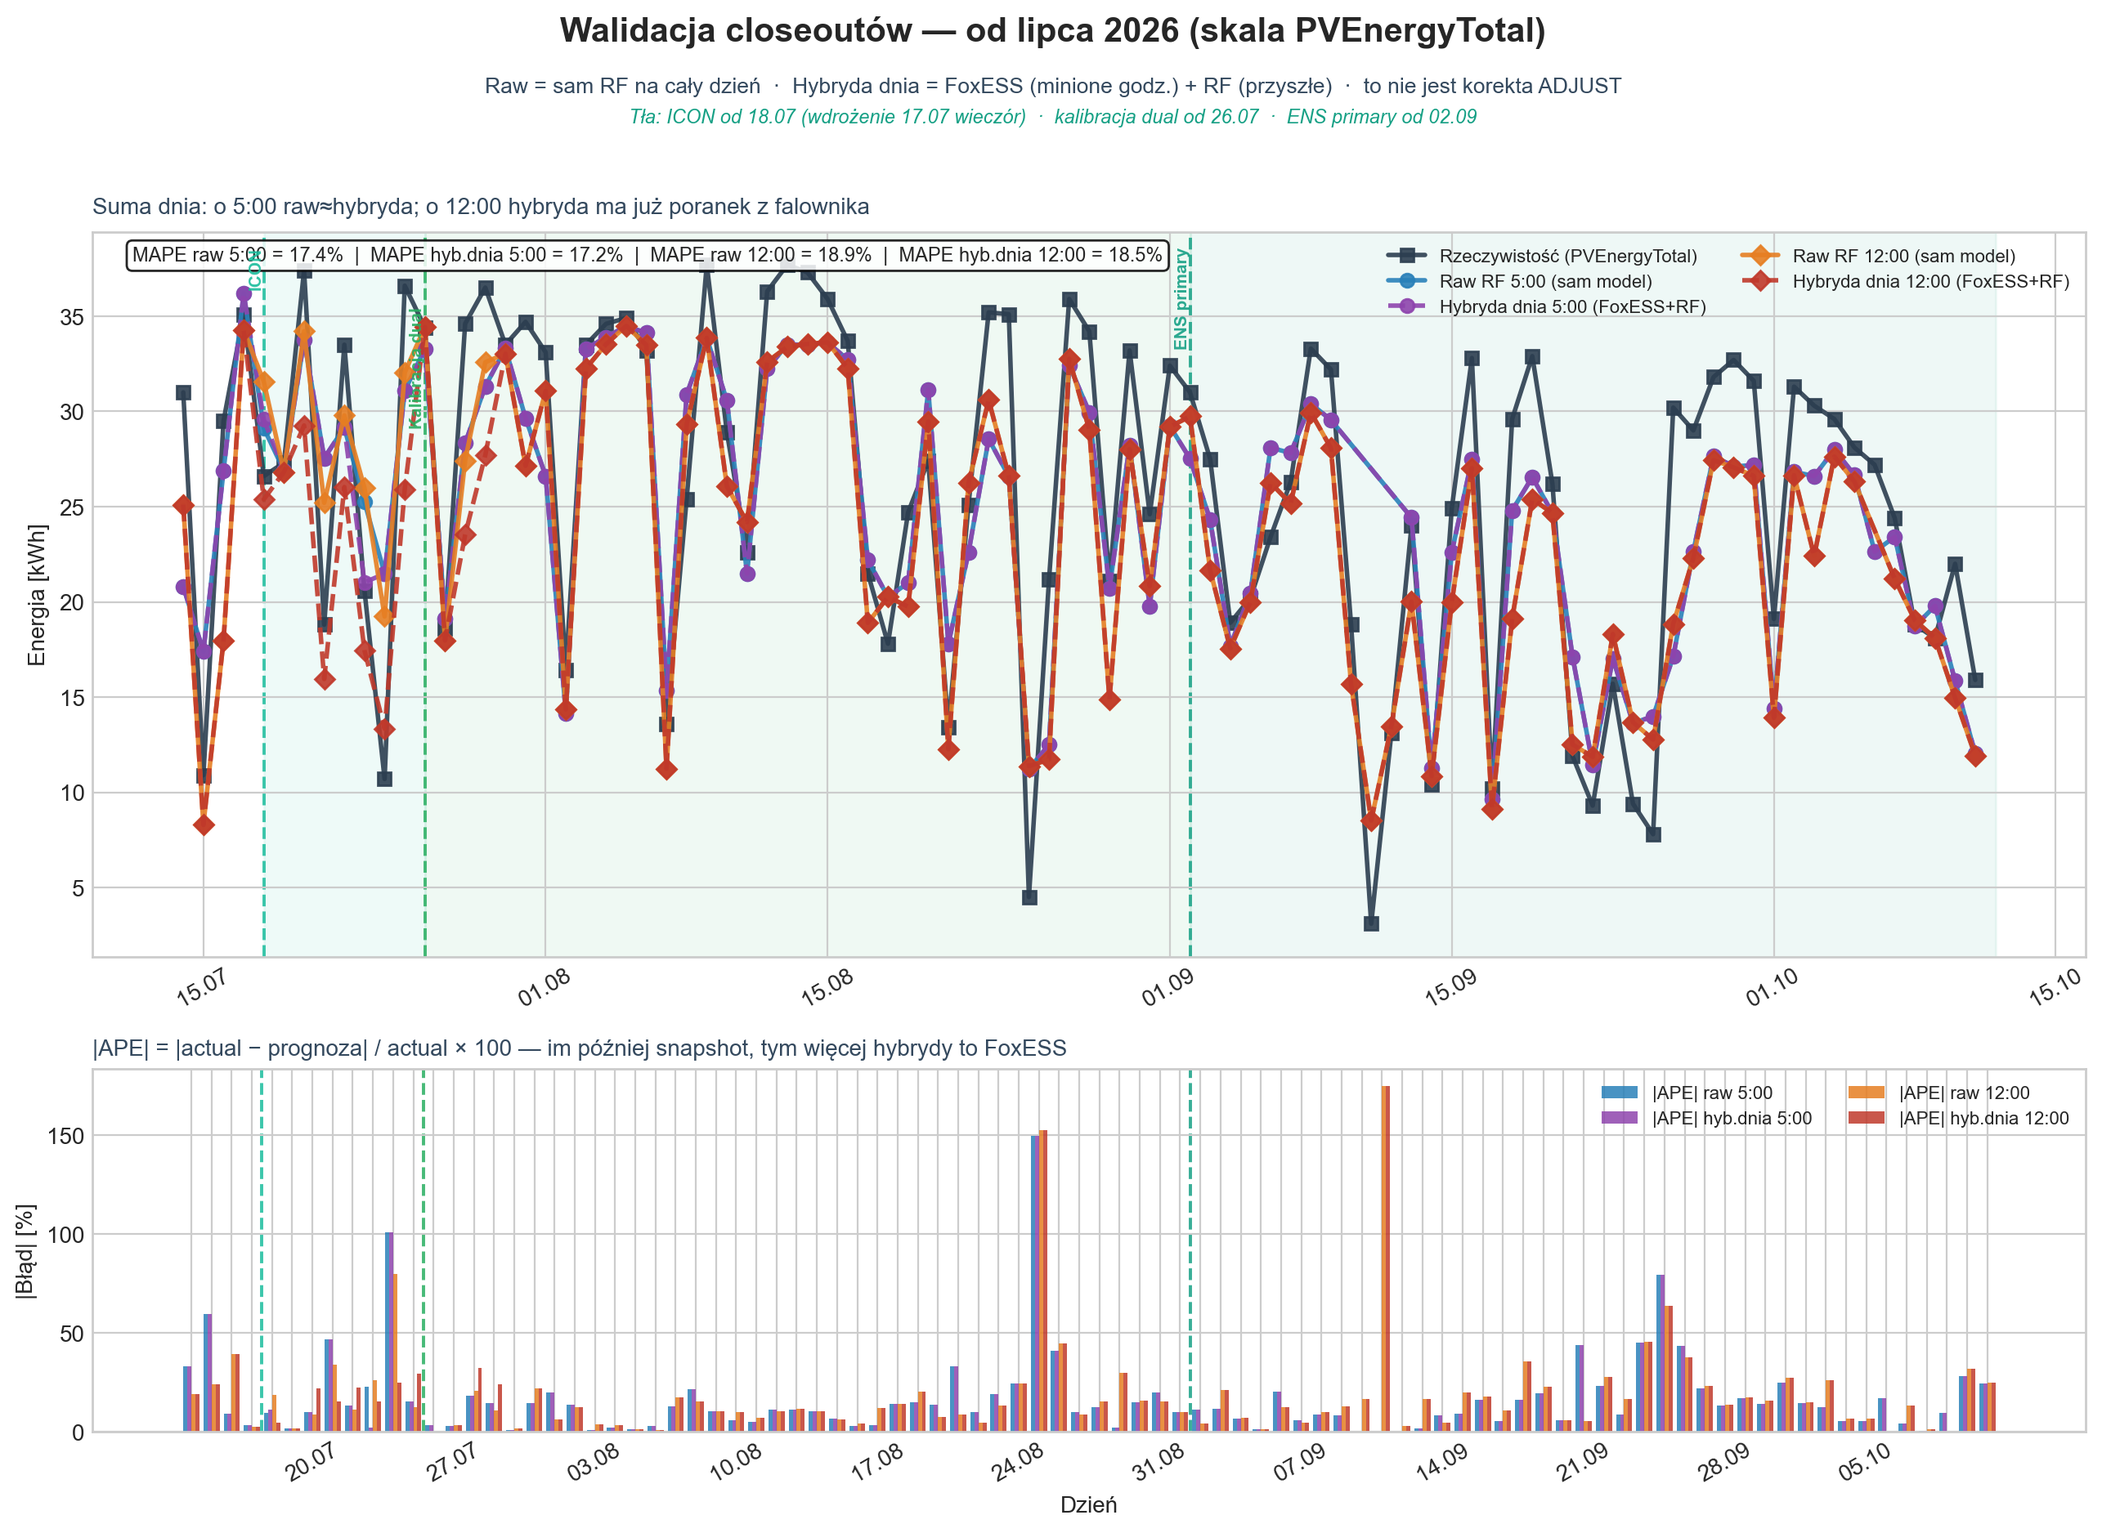
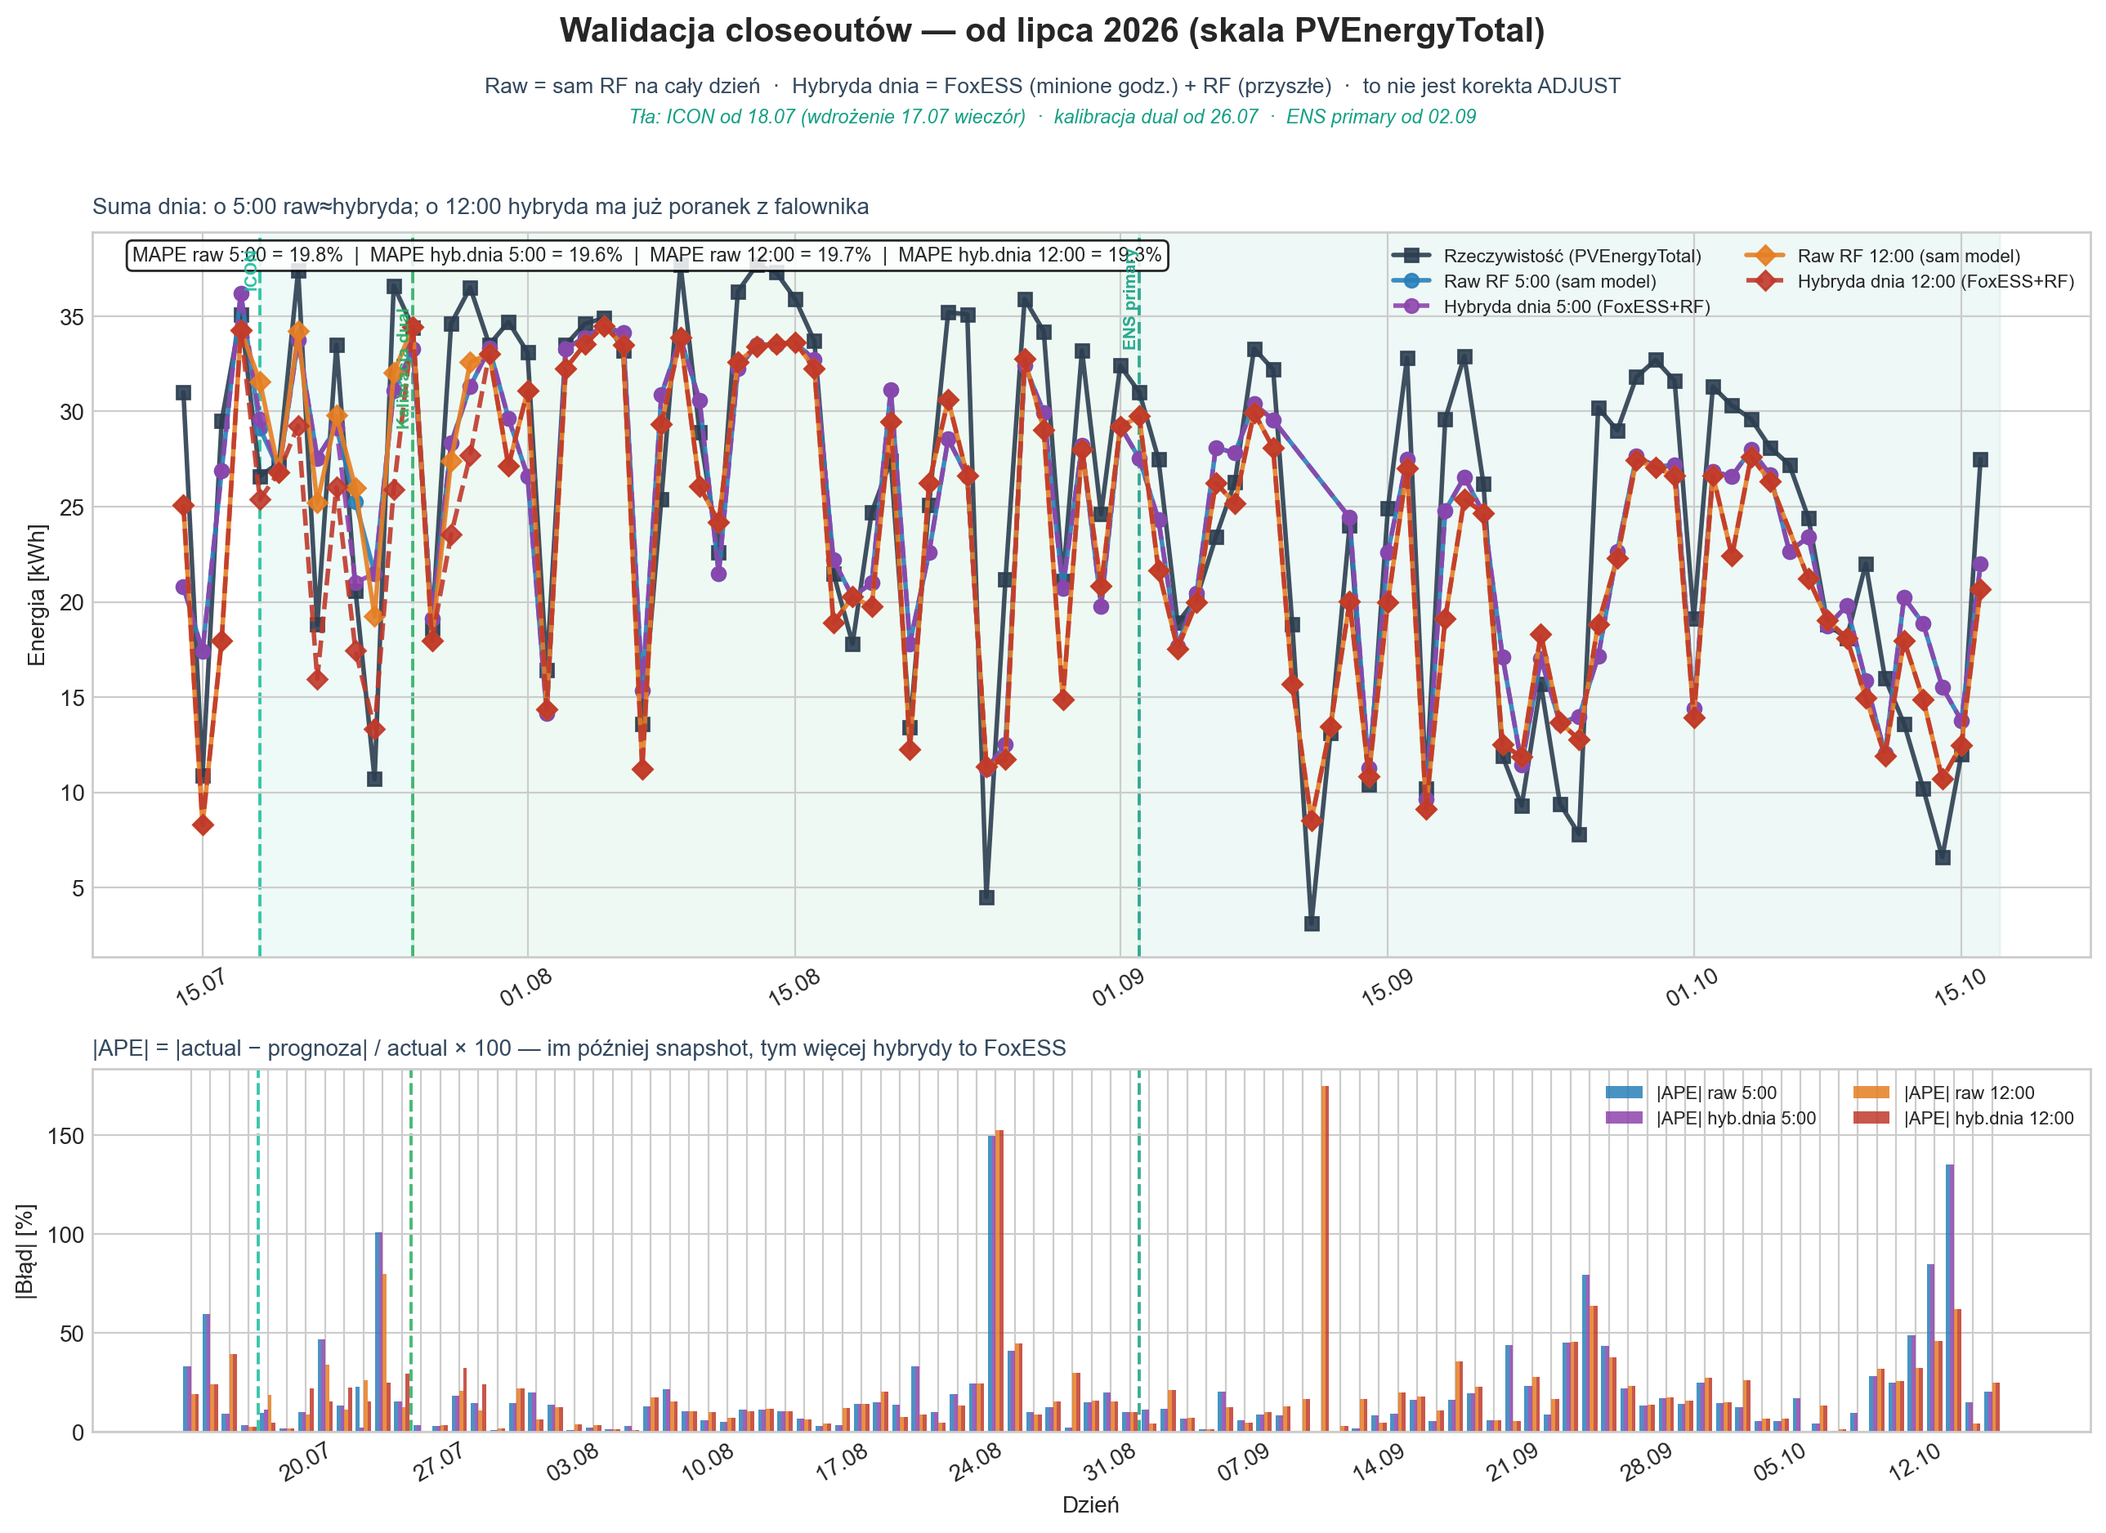
docs(ml): walidacja modeli po closeoutach do 16.10
Seria kończyła się na 11.10, a tydzień 12–16.10 zmienił MAPE i werdykt.

diff --git a/docs/images/ml/july_validation_summary.md b/docs/images/ml/july_validation_summary.md
@@ -6,14 +6,14 @@ Metryka: **|APE| %** = `|actual − prognoza| / actual × 100`. Pogoda: średnie
 
 | Typ dnia (cloud) | n | MAPE raw 5:00 | MAPE raw 12:00 | Dni |
 |---|---:|---:|---:|---|
-| słoneczny / mało chmur | 20 | 8.5% | 9.4% | 20.07, 26.07, 30.07, 04.08, 05.08, 06.08, 09.08, 12.08, 13.08, 14.08, 15.08, 27.08, 08.09, 09.09, 28.09, 29.09, 30.09, 02.10, 03.10, 05.10 |
-| mieszany | 27 | 13.8% | 15.7% | 16.07, 17.07, 25.07, 28.07, 29.07, 31.07, 03.08, 08.08, 16.08, 20.08, 22.08, 23.08, 24.08, 28.08, 29.08, 30.08, 01.09, 02.09, 06.09, 15.09, 16.09, 19.09, 26.09, 27.09, 04.10, 06.10, 07.10 |
-| pochmurny / deszczowy | 43 | 24.3% | 25.2% | 14.07, 15.07, 18.07, 19.07, 21.07, 22.07, 23.07, 24.07, 27.07, 01.08, 02.08, 07.08, 10.08, 11.08, 17.08, 18.08, 19.08, 21.08, 25.08, 26.08, 31.08, 03.09, 04.09, 05.09, 07.09, 10.09, 11.09, 12.09, 13.09, 14.09, 17.09, 18.09, 20.09, 21.09, 22.09, 23.09, 24.09, 25.09, 01.10, 08.10, 09.10, 10.10, 11.10 |
+| słoneczny / mało chmur | 21 | 9.1% | 10.2% | 20.07, 26.07, 30.07, 04.08, 05.08, 06.08, 09.08, 12.08, 13.08, 14.08, 15.08, 27.08, 08.09, 09.09, 28.09, 29.09, 30.09, 02.10, 03.10, 05.10, 16.10 |
+| mieszany | 29 | 17.5% | 17.3% | 16.07, 17.07, 25.07, 28.07, 29.07, 31.07, 03.08, 08.08, 16.08, 20.08, 22.08, 23.08, 24.08, 28.08, 29.08, 30.08, 01.09, 02.09, 06.09, 15.09, 16.09, 19.09, 26.09, 27.09, 04.10, 06.10, 07.10, 12.10, 13.10 |
+| pochmurny / deszczowy | 45 | 26.7% | 25.5% | 14.07, 15.07, 18.07, 19.07, 21.07, 22.07, 23.07, 24.07, 27.07, 01.08, 02.08, 07.08, 10.08, 11.08, 17.08, 18.08, 19.08, 21.08, 25.08, 26.08, 31.08, 03.09, 04.09, 05.09, 07.09, 10.09, 11.09, 12.09, 13.09, 14.09, 17.09, 18.09, 20.09, 21.09, 22.09, 23.09, 24.09, 25.09, 01.10, 08.10, 09.10, 10.10, 11.10, 14.10, 15.10 |
 
 - **Najtrafniejszy raw 5:00:** 08.10 (0.4% · pochmurny / deszczowy, cloud~77%, actual 18.8 kWh), 30.07 (0.6% · słoneczny / mało chmur, cloud~31%, actual 33.5 kWh), 03.08 (0.7% · mieszany, cloud~48%, actual 33.5 kWh)
-- **Najgorszy raw 5:00:** 25.08 (149.8% · pochmurny / deszczowy, cloud~100%, actual 4.5 kWh), 24.07 (100.7% · pochmurny / deszczowy, cloud~86%, actual 10.7 kWh), 25.09 (79.2% · pochmurny / deszczowy, cloud~89%, actual 7.8 kWh)
+- **Najgorszy raw 5:00:** 25.08 (149.8% · pochmurny / deszczowy, cloud~100%, actual 4.5 kWh), 14.10 (135.3% · pochmurny / deszczowy, cloud~94%, actual 6.6 kWh), 24.07 (100.7% · pochmurny / deszczowy, cloud~86%, actual 10.7 kWh)
 - **Najgorszy raw 12:00:** 11.09 (174.8% · pochmurny / deszczowy, actual 3.1 kWh), 25.08 (152.7% · pochmurny / deszczowy, actual 4.5 kWh), 24.07 (79.7% · pochmurny / deszczowy, actual 10.7 kWh)
-- **Rekord |APE| (cała seria 14.07–11.10):** **11.09** raw 12:00 **174.8%** (Fox **3.1** kWh vs prognoza midday **8.5** kWh) — wyżej niż dotychczasowy outlier **25.08** (152,7% midday). Accu reżim **CS4** OK; miss = poziom kWh, nie klasyfikacja.
+- **Rekord |APE| (cała seria 14.07–16.10):** **11.09** raw 12:00 **174.8%** (Fox **3.1** kWh vs prognoza midday **8.5** kWh) — wyżej niż dotychczasowy outlier **25.08** (152,7% midday). Accu reżim **CS4** OK; miss = poziom kWh, nie klasyfikacja.
 
 - **Wzorzec:** na dniach **jasnych / wysokiej produkcji** raw bywa lekko **za niski** (NWP za chmurny vs Accu) — błąd umiarkowany w %, duży w kWh. Na dniach **słabych / burzowych** raw często **zawyża** — wtedy |APE| % eksploduje przy niskim Fox (**11.09** rekord **174,8%**; wcześniej klasa **25.08** ~153%). Od **02.09** primary to **ENS (ICON+UKMO)** — ten sam RF16, inna pogoda.
 
@@ -32,16 +32,17 @@ Raw 5:00 vs Fox, tygodnie pn–nd (od 03.08, min. 5 dni). **WAPE** = Σ|pred−F
 | 14.09–20.09 | 7 | 23.9 | 13.0% | -12.0% | -13.9% (n=5) | 19% | 17.2% (n=7) | -15.9% | **WATCH** · WAPE OK · bias WATCH · dzień OK |
 | 21.09–27.09 | 7 | 16.2 | 34.0% | -0.3% | -32.8% (n=2) | 79% | 25.8% (n=7) | -9.0% | **ALARM** · WAPE ALARM · bias OK · dzień ALARM |
 | 28.09–04.10 | 7 | 29.5 | 13.9% | -13.9% | -12.8% (n=6) | 25% | 15.6% (n=7) | -15.6% | **ALARM** · WAPE OK · bias ALARM · dzień OK |
-| 05.10–11.10 | 7 | 22.1 | 12.1% | -10.0% | -12.9% (n=4) | 28% | 19.1% (n=7) | -18.7% | **WATCH** · WAPE OK · bias WATCH · dzień WATCH |
+| 05.10–11.10 | 7 | 22.1 | 12.2% | -10.0% | -12.9% (n=4) | 28% | 19.1% (n=7) | -18.7% | **WATCH** · WAPE OK · bias WATCH · dzień WATCH |
+| 12.10–18.10 | 5 | 14.0 | 45.0% | +29.3% | -20.0% (n=1) | 135% | 31.3% (n=5) | +4.4% | **ALARM** · WAPE ALARM · bias ALARM · dzień ALARM |
 
 #### ENS vs dual ICON — korekta o miks pogody
 
-Era ENS ma więcej dni pochmurnych (**55%** vs **35%** w erze dual), a na pochmurnych |APE| % jest zawyżone przez niski Fox — dlatego porównuj **te same typy dni** (różnica MAPE raw 5:00, ENS − dual): słoneczny / mało chmur: wyższy o 5.1 pp w erze ENS; mieszany: wyższy o 4.0 pp w erze ENS; pochmurny / deszczowy: niższy o 7.4 pp w erze ENS. Mała próba (n w komórkach) — to obserwacja, nie wniosek.
+Era ENS ma więcej dni pochmurnych (**53%** vs **35%** w erze dual), a na pochmurnych |APE| % jest zawyżone przez niski Fox — dlatego porównuj **te same typy dni** (różnica MAPE raw 5:00, ENS − dual): słoneczny / mało chmur: wyższy o 6.0 pp w erze ENS; mieszany: wyższy o 12.4 pp w erze ENS; pochmurny / deszczowy: niższy o 2.0 pp w erze ENS. Mała próba (n w komórkach) — to obserwacja, nie wniosek.
 
 | Era | słoneczny / mało chmur (n · MAPE 5:00) | mieszany (n · MAPE 5:00) | pochmurny / deszczowy (n · MAPE 5:00) | udział dni pochmurnych |
 |---|---:|---:|---:|---:|
 | dual ICON 27.07–01.09 | 10 · 6.5% | 14 · 12.7% | 13 · 25.8% | 35% |
-| ENS od 02.09 | 8 · 11.6% | 10 · 16.7% | 22 · 18.4% | 55% |
+| ENS od 02.09 | 9 · 12.5% | 12 · 25.1% | 24 · 23.8% | 53% |
 
 #### Kiedy hybryda dnia pomaga, a kiedy szkodzi
 
@@ -49,7 +50,7 @@ Porównanie **midday (12:00)**: hybryda = FoxESS na minione godziny + RF na resz
 
 - **Hybryda pomaga (12:00):** 18.07 (↓14.1 pp, pochmurny / deszczowy); 21.07 (↓18.9 pp, pochmurny / deszczowy); 23.07 (↓10.8 pp, pochmurny / deszczowy); 24.07 (↓55.0 pp, pochmurny / deszczowy)
 - **Hybryda szkodzi (12:00):** 20.07 (↑13.2 pp, słoneczny / mało chmur); 22.07 (↑11.2 pp, pochmurny / deszczowy); 25.07 (↑16.7 pp, mieszany); 28.07 (↑11.3 pp, mieszany); 29.07 (↑13.4 pp, mieszany)
-- **Remis / szum (<1 pp):** 14.07, 15.07, 16.07, 17.07, 19.07, 26.07, 27.07, 30.07, 31.07, 01.08, 02.08, 03.08, 04.08, 05.08, 06.08, 07.08, 08.08, 09.08, 10.08, 11.08, 12.08, 13.08, 14.08, 15.08, 16.08, 17.08, 18.08, 19.08, 20.08, 21.08, 22.08, 23.08, 24.08, 25.08, 26.08, 27.08, 28.08, 29.08, 30.08, 31.08, 01.09, 02.09, 03.09, 04.09, 05.09, 06.09, 07.09, 08.09, 09.09, 10.09, 11.09, 12.09, 13.09, 14.09, 15.09, 16.09, 17.09, 18.09, 19.09, 20.09, 21.09, 22.09, 23.09, 24.09, 25.09, 26.09, 27.09, 28.09, 29.09, 30.09, 01.10, 02.10, 03.10, 04.10, 05.10, 07.10, 08.10, 09.10, 10.10, 11.10
+- **Remis / szum (<1 pp):** 14.07, 15.07, 16.07, 17.07, 19.07, 26.07, 27.07, 30.07, 31.07, 01.08, 02.08, 03.08, 04.08, 05.08, 06.08, 07.08, 08.08, 09.08, 10.08, 11.08, 12.08, 13.08, 14.08, 15.08, 16.08, 17.08, 18.08, 19.08, 20.08, 21.08, 22.08, 23.08, 24.08, 25.08, 26.08, 27.08, 28.08, 29.08, 30.08, 31.08, 01.09, 02.09, 03.09, 04.09, 05.09, 06.09, 07.09, 08.09, 09.09, 10.09, 11.09, 12.09, 13.09, 14.09, 15.09, 16.09, 17.09, 18.09, 19.09, 20.09, 21.09, 22.09, 23.09, 24.09, 25.09, 26.09, 27.09, 28.09, 29.09, 30.09, 01.10, 02.10, 03.10, 04.10, 05.10, 07.10, 08.10, 09.10, 10.10, 11.10, 12.10, 13.10, 14.10, 15.10, 16.10
 
 - **O 5:00:** hybryda ≈ raw (pomaga 1 dni / szkodzi 1) — przed wschodem prawie nie ma FoxESS do podmiany.
 
@@ -68,18 +69,18 @@ Podział według **zmian logiki / targetu / cech** (nie każdy niedzielny odświ
 | 14.07–18.07 | przed targetem PVE (skala mieszana; GPS/ICON 17.07) | 5 | 22.8% | 20.6% |
 | 19.07–26.07 | po PVE 18.07 ~16:32 — przed dual 26.07 | 8 | 26.5% | 21.7% |
 | 27.07–01.09 | era dual ICON primary (po 26.07; weekly = odświeżenie wag) | 37 | 15.6% | 15.8% |
-| 02.09–11.10 | era ENS primary (ICON+UKMO; gate 01.09, daily od 02.09) | 40 | 16.5% | 21.0% |
-| 19.07–11.10 | **era PVE łącznie** (bez 14–18) | 85 | **17.1%** | **18.8%** |
+| 02.09–16.10 | era ENS primary (ICON+UKMO; gate 01.09, daily od 02.09) | 45 | 21.7% | 22.5% |
+| 19.07–16.10 | **era PVE łącznie** (bez 14–18) | 90 | **19.6%** | **19.6%** |
 
-_Zakres całość: 14.07–11.10 (90 closeoutów) · MAPE raw 5:00 = **17.4%** · MAPE raw 12:00 = **18.9%**._
+_Zakres całość: 14.07–16.10 (95 closeoutów) · MAPE raw 5:00 = **19.8%** · MAPE raw 12:00 = **19.7%**._
 
-#### Notatka odświeżenia 11.10.2026
+#### Notatka odświeżenia 17.10.2026
 
-- Zakres closeoutów: **14.07–11.10** (n=90). PNG + ten plik wygenerowane **11.10**.
+- Zakres closeoutów: **14.07–16.10** (n=95). PNG + ten plik wygenerowane **17.10**.
 - Linie na wykresie: **ICON** od **18.07** (wdrożenie 17.07 wieczór) · **kalibracja dual** od **26.07** · **ENS primary** od **02.09**.
-- **ENS primary** od **02.09** (gate 01.09, pierwszy daily 5:00) — n=40 closeoutów · MAPE raw **16.5% / 21.0%**.
+- **ENS primary** od **02.09** (gate 01.09, pierwszy daily 5:00) — n=45 closeoutów · MAPE raw **21.7% / 22.5%**.
 - Era dual ICON **27.07–01.09** (n=37): MAPE raw **15.6% / 15.8%**.
-- Ostatnie closeouty (actual · |APE| raw 5:00): 04.10 **29.6** (raw 5:00 5.4%), 05.10 **28.1** (raw 5:00 5.1%), 06.10 **27.2** (raw 5:00 16.8%), 07.10 **24.4** (raw 5:00 4.1%), 08.10 **18.8** (raw 5:00 0.4%), 09.10 **18.1** (raw 5:00 9.3%), 10.10 **22.0** (raw 5:00 28.0%), 11.10 **15.9** (raw 5:00 24.3%).
+- Ostatnie closeouty (actual · |APE| raw 5:00): 09.10 **18.1** (raw 5:00 9.3%), 10.10 **22.0** (raw 5:00 28.0%), 11.10 **16.0** (raw 5:00 24.8%), 12.10 **13.6** (raw 5:00 48.7%), 13.10 **10.2** (raw 5:00 84.9%), 14.10 **6.6** (raw 5:00 135.3%), 15.10 **12.0** (raw 5:00 14.7%), 16.10 **27.5** (raw 5:00 20.0%).
 
 #### Jak czytać PNG
 

diff --git a/docs/images/ml/weekly_model_weather_review.md b/docs/images/ml/weekly_model_weather_review.md
@@ -1,7 +1,7 @@
 # Review modeli × pogoda (closeouty)
 
-**Wygenerowano:** 2026-10-11 (odświeżenie po closeoucie 11.10 i retrenie 04:30)  
-**Zakres closeoutów:** 2026-07-14 → 2026-10-11 (**90** dni)  
+**Wygenerowano:** 2026-10-17 (przegląd modeli × pogoda)  
+**Zakres closeoutów:** 2026-07-14 → 2026-10-16 (**95** dni)  
 **Metryka:** |APE| % = |Fox − prognoza| / Fox × 100 · pogoda: średnie cloud **6–20** (ICON w DB)  
 **Nie w tabeli:** UKMO solo / oneshot ½ — tylko w notatkach dnia (`oneshot_rf_icon_vs_ukmo.py`).  
 
@@ -9,47 +9,46 @@
 
 ---
 
-### Skrót (po retrenie 11.10)
+### Decyzja przed niedzielą (skrót)
 
-- **Pochmurne/deszczowe** (n=43): CS4 @05 **21.7%** vs ENS **24.3%** → rozważ routing / shadow CS4 (paper Accu).
-- **Słoneczne** (n=20): ENS @05 średnio **8.5%** — nie przełączaj na CS4 globalnie.
-- **Retrain 11.10:** RF/CS4 **ACCEPT**, XGB **REVIEW** (Δ shuffle +0,027) — primary bez zmian.
-- **Peak @16:** XGB **10.8%** vs ENS @12 **18.9%** — shadow XGB warto monitorować; retrening niedzielny i tak odświeża wszystkie trzy jobliby.
+- **Pochmurne/deszczowe** (n=45): CS4 @05 **21.4%** vs ENS **26.7%** → rozważ routing / shadow CS4 (paper Accu).
+- **Słoneczne** (n=21): ENS @05 średnio **9.1%** — nie przełączaj na CS4 globalnie.
+- **Peak @16:** XGB **10.5%** vs ENS @12 **19.7%** — shadow XGB warto monitorować; retrening niedzielny i tak odświeża wszystkie trzy jobliby.
 
 #### Cała seria (od lipca)
 
 | Typ dnia | n | ENS @05 | ENS @12 | ICON ld @05 | ICON ld @12 | CS4 ld @05 | CS4 ld @12 | CS4 peak | ICON peak | XGB @05 | XGB peak |
 |---|---:|---:|---:|---:|---:|---:|---:|---:|---:|---:|---:|
-| pochmurny / deszczowy | 43 | 24.3% | 25.2% | 22.7% | 23.7% | 21.7% | 24.3% | 13.2% | 13.0% | 22.8% | 12.5% |
-| mieszany | 27 | 13.8% | 15.7% | 20.4% | 18.1% | 16.8% | 17.0% | 9.1% | 6.3% | 17.5% | 9.7% |
-| słoneczny / mało chmur | 20 | 8.5% | 9.4% | 13.1% | 14.5% | 10.8% | 11.6% | 7.9% | 6.2% | 9.2% | 8.7% |
+| pochmurny / deszczowy | 45 | 26.7% | 25.5% | 23.1% | 23.8% | 21.4% | 24.1% | 13.0% | 12.6% | 22.2% | 12.2% |
+| mieszany | 29 | 17.5% | 17.3% | 23.9% | 20.3% | 18.9% | 18.3% | 8.9% | 6.3% | 18.2% | 9.3% |
+| słoneczny / mało chmur | 21 | 9.1% | 10.2% | 15.1% | 15.8% | 11.8% | 12.4% | 7.8% | 6.1% | 10.5% | 8.6% |
 
 #### Ostatnie 28 dni
 
 | Typ dnia | n | ENS @05 | ENS @12 | ICON ld @05 | ICON ld @12 | CS4 ld @05 | CS4 ld @12 | CS4 peak | ICON peak | XGB @05 | XGB peak |
 |---|---:|---:|---:|---:|---:|---:|---:|---:|---:|---:|---:|
-| pochmurny / deszczowy | 15 | 21.6% | 21.1% | 17.3% | 18.9% | 16.6% | 19.4% | 5.4% | 5.9% | 17.5% | 5.0% |
-| mieszany | 8 | 17.0% | 20.1% | 22.4% | 22.3% | 24.2% | 25.5% | 6.9% | 6.9% | 24.7% | 7.9% |
-| słoneczny / mało chmur | 6 | 12.6% | 15.7% | 13.9% | 15.4% | 15.9% | 17.7% | 6.2% | 6.7% | 15.6% | 7.8% |
+| mieszany | 8 | 30.5% | 25.9% | 28.5% | 25.0% | 30.1% | 27.9% | 6.9% | 6.6% | 27.1% | 6.9% |
+| pochmurny / deszczowy | 13 | 34.1% | 24.3% | 19.3% | 19.1% | 16.1% | 17.3% | 5.5% | 5.3% | 15.8% | 4.5% |
+| słoneczny / mało chmur | 7 | 13.7% | 17.0% | 16.4% | 16.9% | 18.0% | 19.0% | 6.0% | 6.5% | 18.2% | 7.4% |
 
 #### Ostatnie 7 dni
 
 | Typ dnia | n | ENS @05 | ENS @12 | ICON ld @05 | ICON ld @12 | CS4 ld @05 | CS4 ld @12 | CS4 peak | ICON peak | XGB @05 | XGB peak |
 |---|---:|---:|---:|---:|---:|---:|---:|---:|---:|---:|---:|
-| mieszany | 3 | 8.8% | 9.9% | 19.1% | 10.9% | 18.9% | 12.3% | 8.0% | 7.5% | 22.1% | 9.0% |
-| słoneczny / mało chmur | 1 | 5.1% | 6.4% | 4.1% | 5.9% | 5.7% | 7.2% | 7.2% | 7.3% | 7.8% | 7.7% |
-| pochmurny / deszczowy | 4 | 15.5% | 14.5% | 18.6% | 19.5% | 14.8% | 17.2% | 3.6% | 3.0% | 19.9% | 2.7% |
+| pochmurny / deszczowy | 4 | 50.7% | 30.9% | 30.3% | 30.3% | 20.4% | 24.1% | 6.7% | 5.4% | 24.6% | 3.9% |
+| mieszany | 2 | 66.8% | 39.0% | 41.6% | 30.3% | 44.8% | 33.5% | 7.0% | 6.5% | 26.1% | 4.6% |
+| słoneczny / mało chmur | 1 | 20.0% | 24.8% | 31.0% | 26.0% | 30.5% | 26.9% | 5.1% | 5.2% | 33.8% | 5.2% |
 
 #### Najniższy |APE| @05 (porównanie daily snapshotów)
 
 | Wariant | dni (wygrał @05) |
 |---:|---:|
-| ENS @05 | 43 |
-| XGB @05 | 23 |
-| CS4 ld @05 | 17 |
+| ENS @05 | 44 |
+| XGB @05 | 26 |
+| CS4 ld @05 | 18 |
 | ICON ld @05 | 7 |
 
-**Pochmurne / deszczowe:** ENS @05 **22×**, XGB @05 **11×**, CS4 ld @05 **8×**, ICON ld @05 **2×**
+**Pochmurne / deszczowe:** ENS @05 **22×**, XGB @05 **12×**, CS4 ld @05 **9×**, ICON ld @05 **2×**
 
 ---
 
